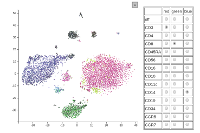
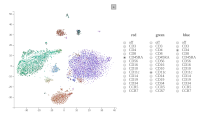
Example 4 in gallery updated

diff --git a/docs/gallery/ex4/code_JS.html b/docs/gallery/ex4/code_JS.html
@@ -2,10 +2,10 @@
 <script type="text/javascript" src="../../src/prism.js"></script>
 
 <pre class="language-javascript line-numbers"><code>
-var marker = 0,
-   red = "off",
-   green = "off",
-   blue = "off";
+var marker = 0;
+red = "off";
+green = "off";
+blue = "off";
 
 //save marker counts as an object instead of matrix
 var cm = {};
@@ -17,50 +17,21 @@ var tsne = lc.scatter()
    .y(i => data.tsne[i][1])
    .size(1)
    .colour(i => "rgb(" + cm[red][i] + ", " +
-                         cm[green][i] + ", " +
-                         cm[blue][i] + ")")
-   .place("#plot");
+                                    cm[green][i] + ", " +
+                                    cm[blue][i] + ")")
+   .place(d3.select("#top").select("#plot"));
 
-//reserve a row for headers in the table
-data.markerNames.unshift("names");
-
-//create a table row for each marker
-d3.select("#top").select("#buttons").select("table")
-   .selectAll("tr").data(data.markerNames)
-      .enter()
-         .append("tr");
-
-//add table cells for each colour channel and marker names
-var cells = d3.select("#top").select("#buttons").select("table")
-   .selectAll("tr").selectAll("td")
-      .data(d => ["names", "red", "green", "blue"].map(el => [d, el]))
-         .enter()
-            .append("td")
-            //cells with names (not buttons) will be of class "tabletitle"
-            .attr("class", d => d[0] == "names" || d[1] == "names" ? "tabletitle" : undefined)
-            .style("padding", "2px 2px 2px 2px");
-
-//add buttons to each cell
-cells
-   .append("input")
-      .attr("type", "radio")
-      .attr("name", d => d[1])
-      .attr("value", d => d[0])
-      //off-buttons will be checked by default
-      .attr("checked", d => d[0] == "off" & d[1] != "names" ? true : undefined)
-      .on("change", function() {
-         window[this.name] = this.value;
-         tsne.updateElementStyle()
-      });
-
-//replace buttons in the header column and row with text
-d3.selectAll(".tabletitle")
-   .text(function(d) {
-      if(d[0] == "names" & d[1] == "names")
-         return "";
-      if(d[0] == "names")
-         return d[1];
-      if(d[1] == "names")
-         return d[0];
-   })
+//add a set a radio buttons for each colour channel
+var colours = ["red", "green", "blue"];
+for(var i in colours)
+   (function(colour) {
+      lc.input()
+         .type("radio")
+         .width(100)
+         .title(colour)
+         .elementIds(data.markerNames)
+         .on_change(value => {window[colour] = value; tsne.updateElementStyle()})
+         .value("off")
+         .place(d3.select("#top").select("#buttons_" + colour));
+   })(colours[i]);
 </code></pre>

diff --git a/docs/gallery/ex4/code_R.html b/docs/gallery/ex4/code_R.html
@@ -2,41 +2,21 @@
 <script type="text/javascript" src="../../src/prism.js"></script>
 
 <pre class="language-r line-numbers"><code>
-# Make the radio buttons
 buttonRows <- c( "off", rownames(countMatrixADT) )
-buttonCols <- c( "red", "green", "blue" )
-
-buttonMatrix <- outer( buttonRows, buttonCols, function( row, col ) 
-   hmakeTag( "input",   
-      type = "radio",       # it's radio buttons again
-      name = col,           # each column (red, green or blue) is one group
-      value = row,          # the rowname (an antibody, or "off") is the value
-      onchange = "jrc.sendData( this.name, this.value ); jrc.sendCommand( 'updateCharts()' )" ) ) 
-
-rownames(buttonMatrix) <- buttonRows
-colnames(buttonMatrix) <- buttonCols
-
-writeLines(
-   hwrite( c(
-      hmakeTag( "div", id="tsneChart" ),
-      hwrite( buttonMatrix ) ) ), 
-   "rgbTSNE.html" )
 
 # A small convenience function
 unitrange <- function( x )
   ( x - min(x) ) / ( max(x) - min(x) )
 
 # Initalize the page
-rlc::openPage( FALSE, startPage="rgbTSNE.html" )
+openPage(FALSE, layout = "table1x4")
 
 red   <- "off"
 green <- "off"
 blue  <- "off"
 
-jrc::sendCommand(
-  'd3.selectAll("input[type=radio][value=off]").attr( "checked", "yes" )' )
-
-lc_scatter(dat(
+lc_scatter( 
+  dat(
     x = tsne$Y[,1],
     y = tsne$Y[,2],
     colour = rgb( 
@@ -44,5 +24,31 @@ lc_scatter(dat(
       if( green=="off" ) 0 else unitrange(log( countMatrixADT[green,] )), 
       if( blue=="off" )  0 else unitrange(log( countMatrixADT[blue,] )) ),
     size = 1 ),
-  place = "tsneChart" )
+  place = "A1" )
+
+lc_input(type = "radio", 
+         labels = buttonRows, 
+         title = "Red", 
+         on_change = function(value) {
+           red <<- buttonRows[value]
+           updateCharts("A1")
+         }, 
+         value = 1,  width = 100, place = "A2")
+lc_input(type = "radio", 
+         labels = buttonRows, 
+         title = "Green", 
+         on_click = function(value) {
+           green <<- buttonRows[value]
+           updateCharts("A1")
+         }, 
+         value = 1, width = 100, place = "A3")
+lc_input(type = "radio",
+         labels = buttonRows, 
+         title = "Blue", 
+         on_click = function(value) {
+           blue <<- buttonRows[value]
+           updateCharts("A1")
+           }, 
+         value = 1, width = 100, place = "A4")
+
 </code></pre>

diff --git a/docs/gallery/ex4/index.html b/docs/gallery/ex4/index.html
@@ -8,7 +8,9 @@
 <table>
    <tr>
       <td id = "plot"></td>
-      <td id = "buttons"><table border="1"></table></td>
+      <td id = "buttons_red"><table></table></td>
+      <td id = "buttons_green"><table></table></td>
+      <td id = "buttons_blue"><table></table></td>
    </tr>
 </table>
 </div>
@@ -26,48 +28,23 @@ for(var i = 0; i < data.markerNames.length; i++)
 var tsne = lc.scatter()
 	.x(i => data.tsne[i][0])
 	.y(i => data.tsne[i][1])
-	.width(window.innerWidth * 0.45)
-	.height(window.innerWidth * 0.45)
 	.size(1)
 	.colour(i => "rgb(" + cm[red][i] + ", " +
 												cm[green][i] + ", " +
 												cm[blue][i] + ")")
 	.place(d3.select("#top").select("#plot"));
 
-data.markerNames.unshift("names");
-
-d3.select("#top").select("#buttons").select("table")
-	.selectAll("tr").data(data.markerNames)
-		.enter()
-			.append("tr");
-
-var cells = d3.select("#top").select("#buttons").select("table")
-	.selectAll("tr").selectAll("td")
-		.data(d => ["names", "red", "green", "blue"].map(el => [d, el]))
-			.enter()
-				.append("td")
-				.attr("class", d => d[0] == "names" || d[1] == "names" ? "tabletitle" : undefined)
-				.style("padding", "2px 2px 2px 2px");
-
-cells
-	.append("input")
-		.attr("type", "radio")
-		.attr("name", d => d[1])
-		.attr("value", d => d[0])
-		.attr("checked", d => d[0] == "off" & d[1] != "names" ? true : undefined)
-		.on("change", function() {
-			window[this.name] = this.value;
-			tsne.updateElementStyle()
-		});
-
-d3.selectAll(".tabletitle")
-	.text(function(d) {
-		if(d[0] == "names" & d[1] == "names")
-			return "";
-		if(d[0] == "names")
-			return d[1];
-		if(d[1] == "names")
-			return d[0];
-	})
+var colours = ["red", "green", "blue"];
+for(var i in colours)
+	(function(colour) {
+		lc.input()
+			.type("radio")
+			.width(100)
+			.title(colour)
+			.elementIds(data.markerNames)
+			.on_change(value => {window[colour] = value; tsne.updateElementStyle()})
+			.value("off")
+			.place(d3.select("#top").select("#buttons_" + colour));
+	})(colours[i]);
 	</script>
 </body>
